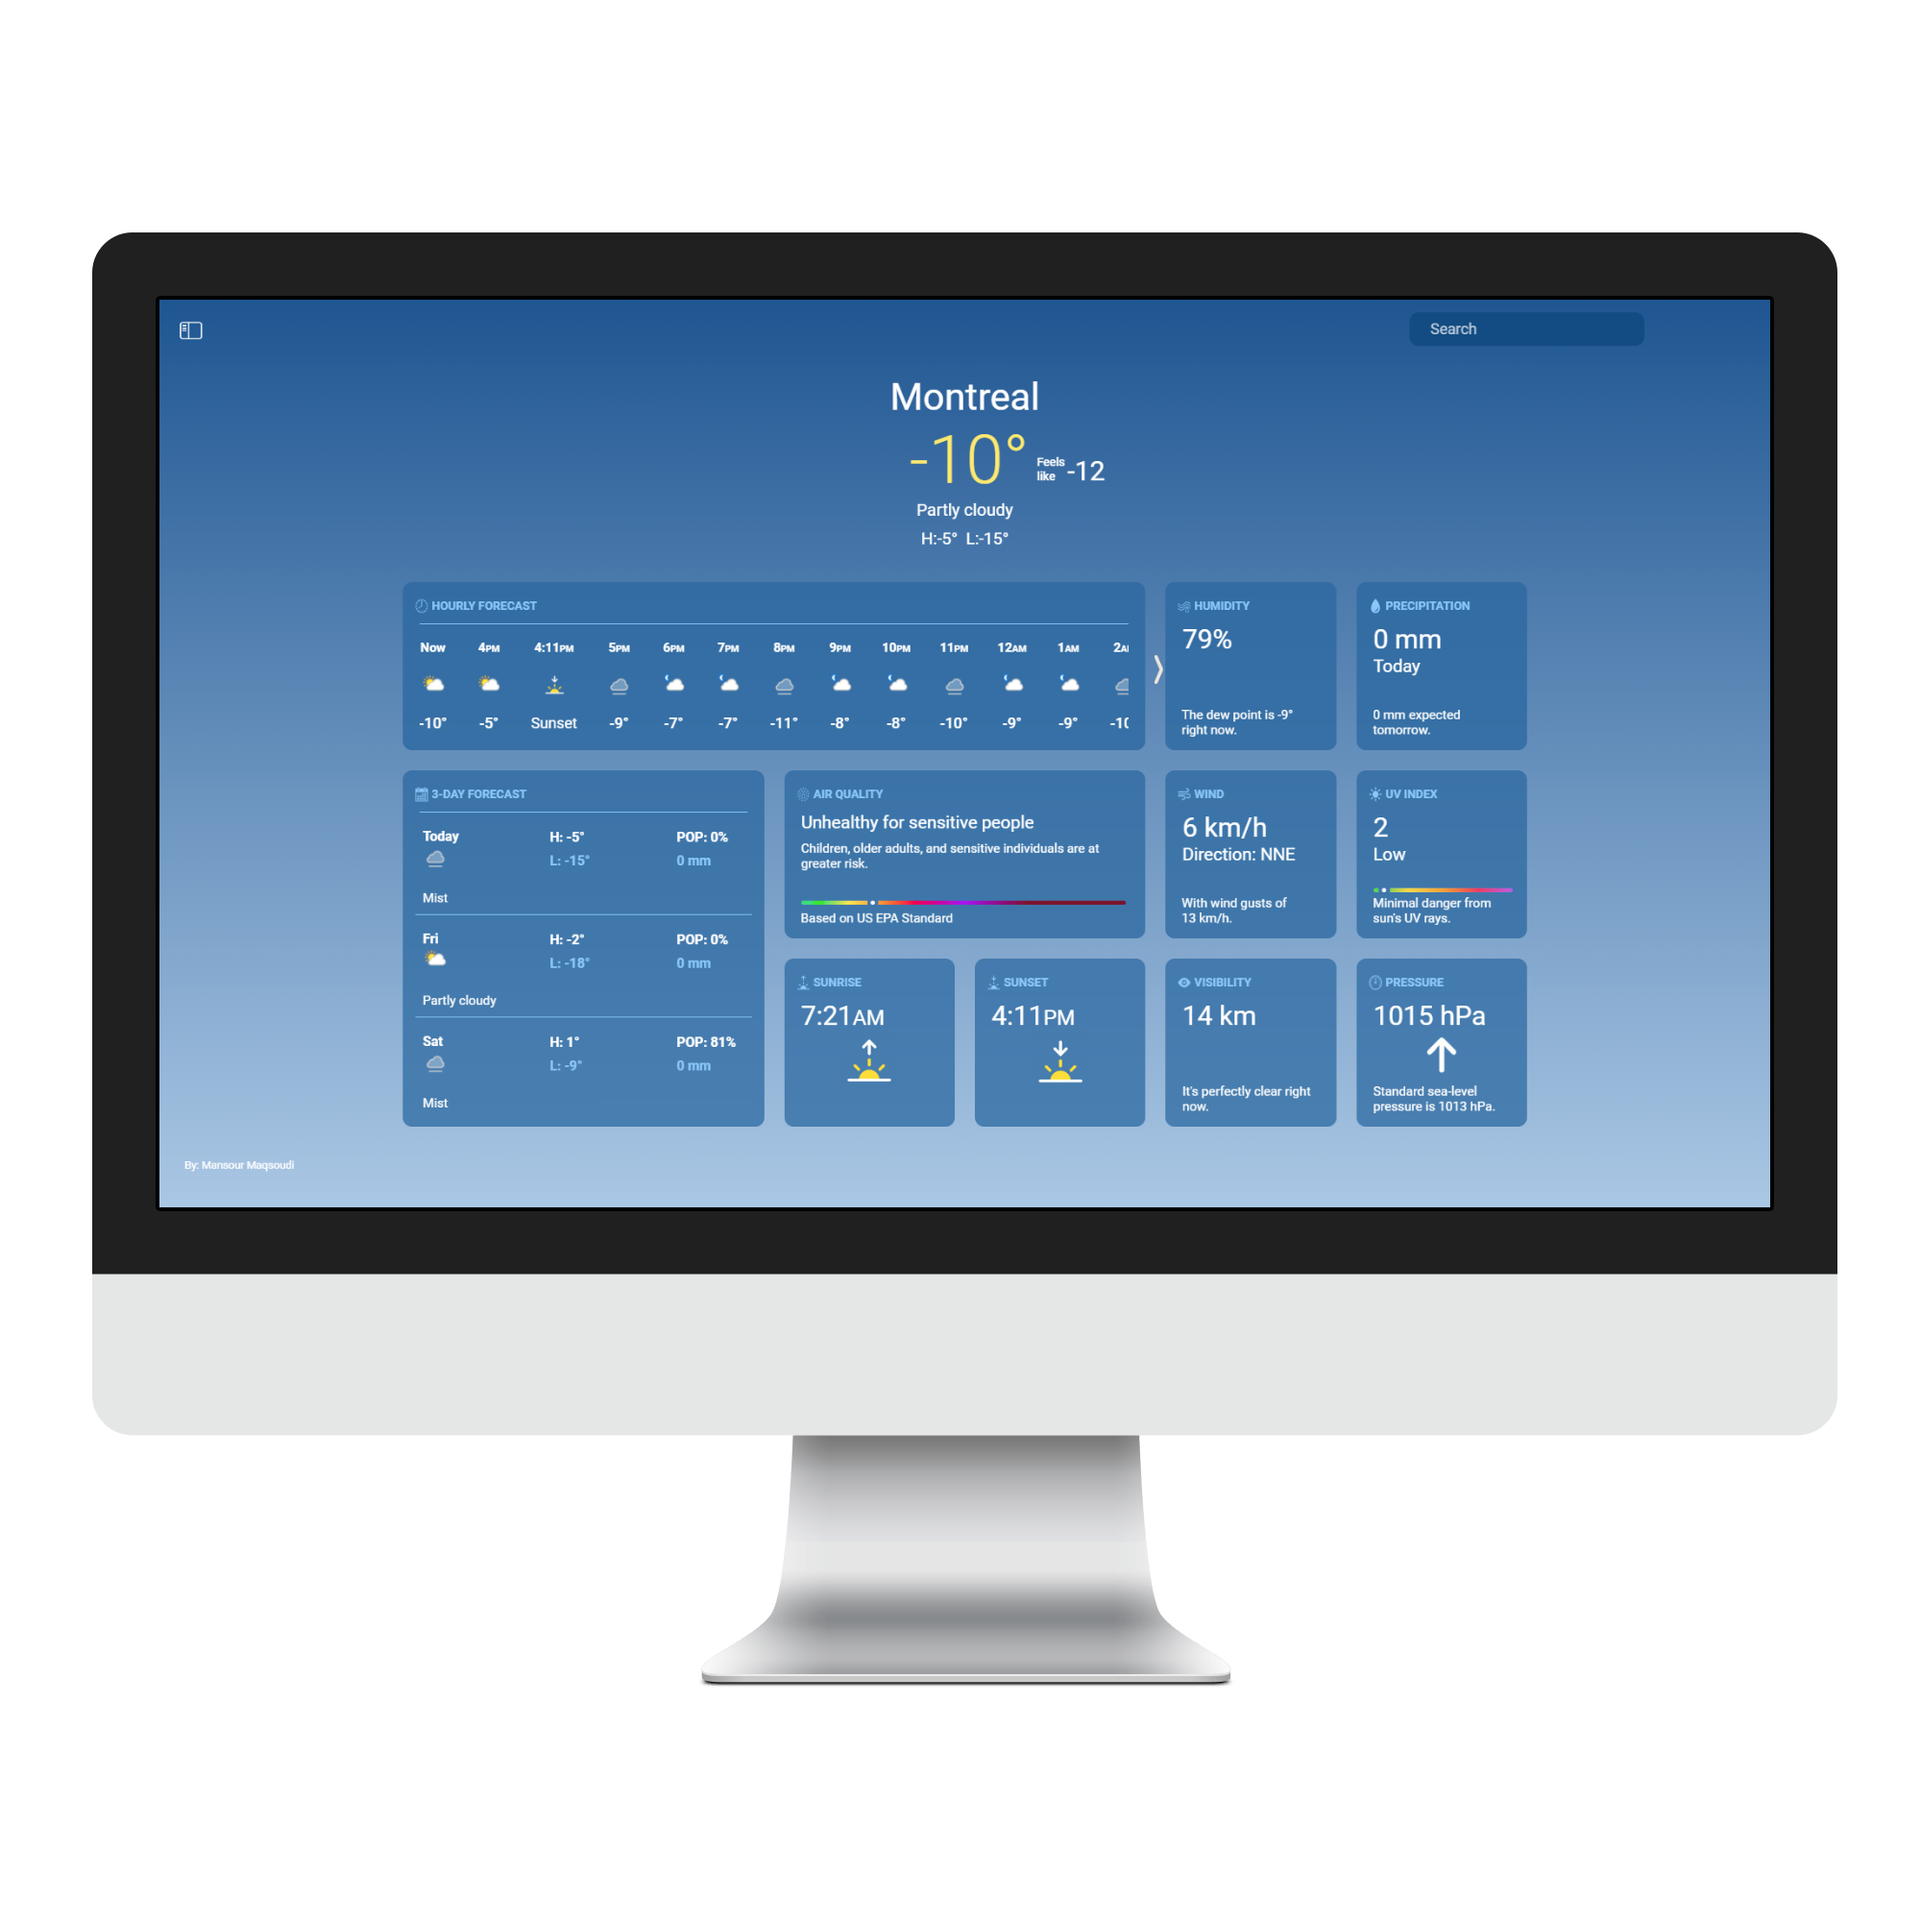
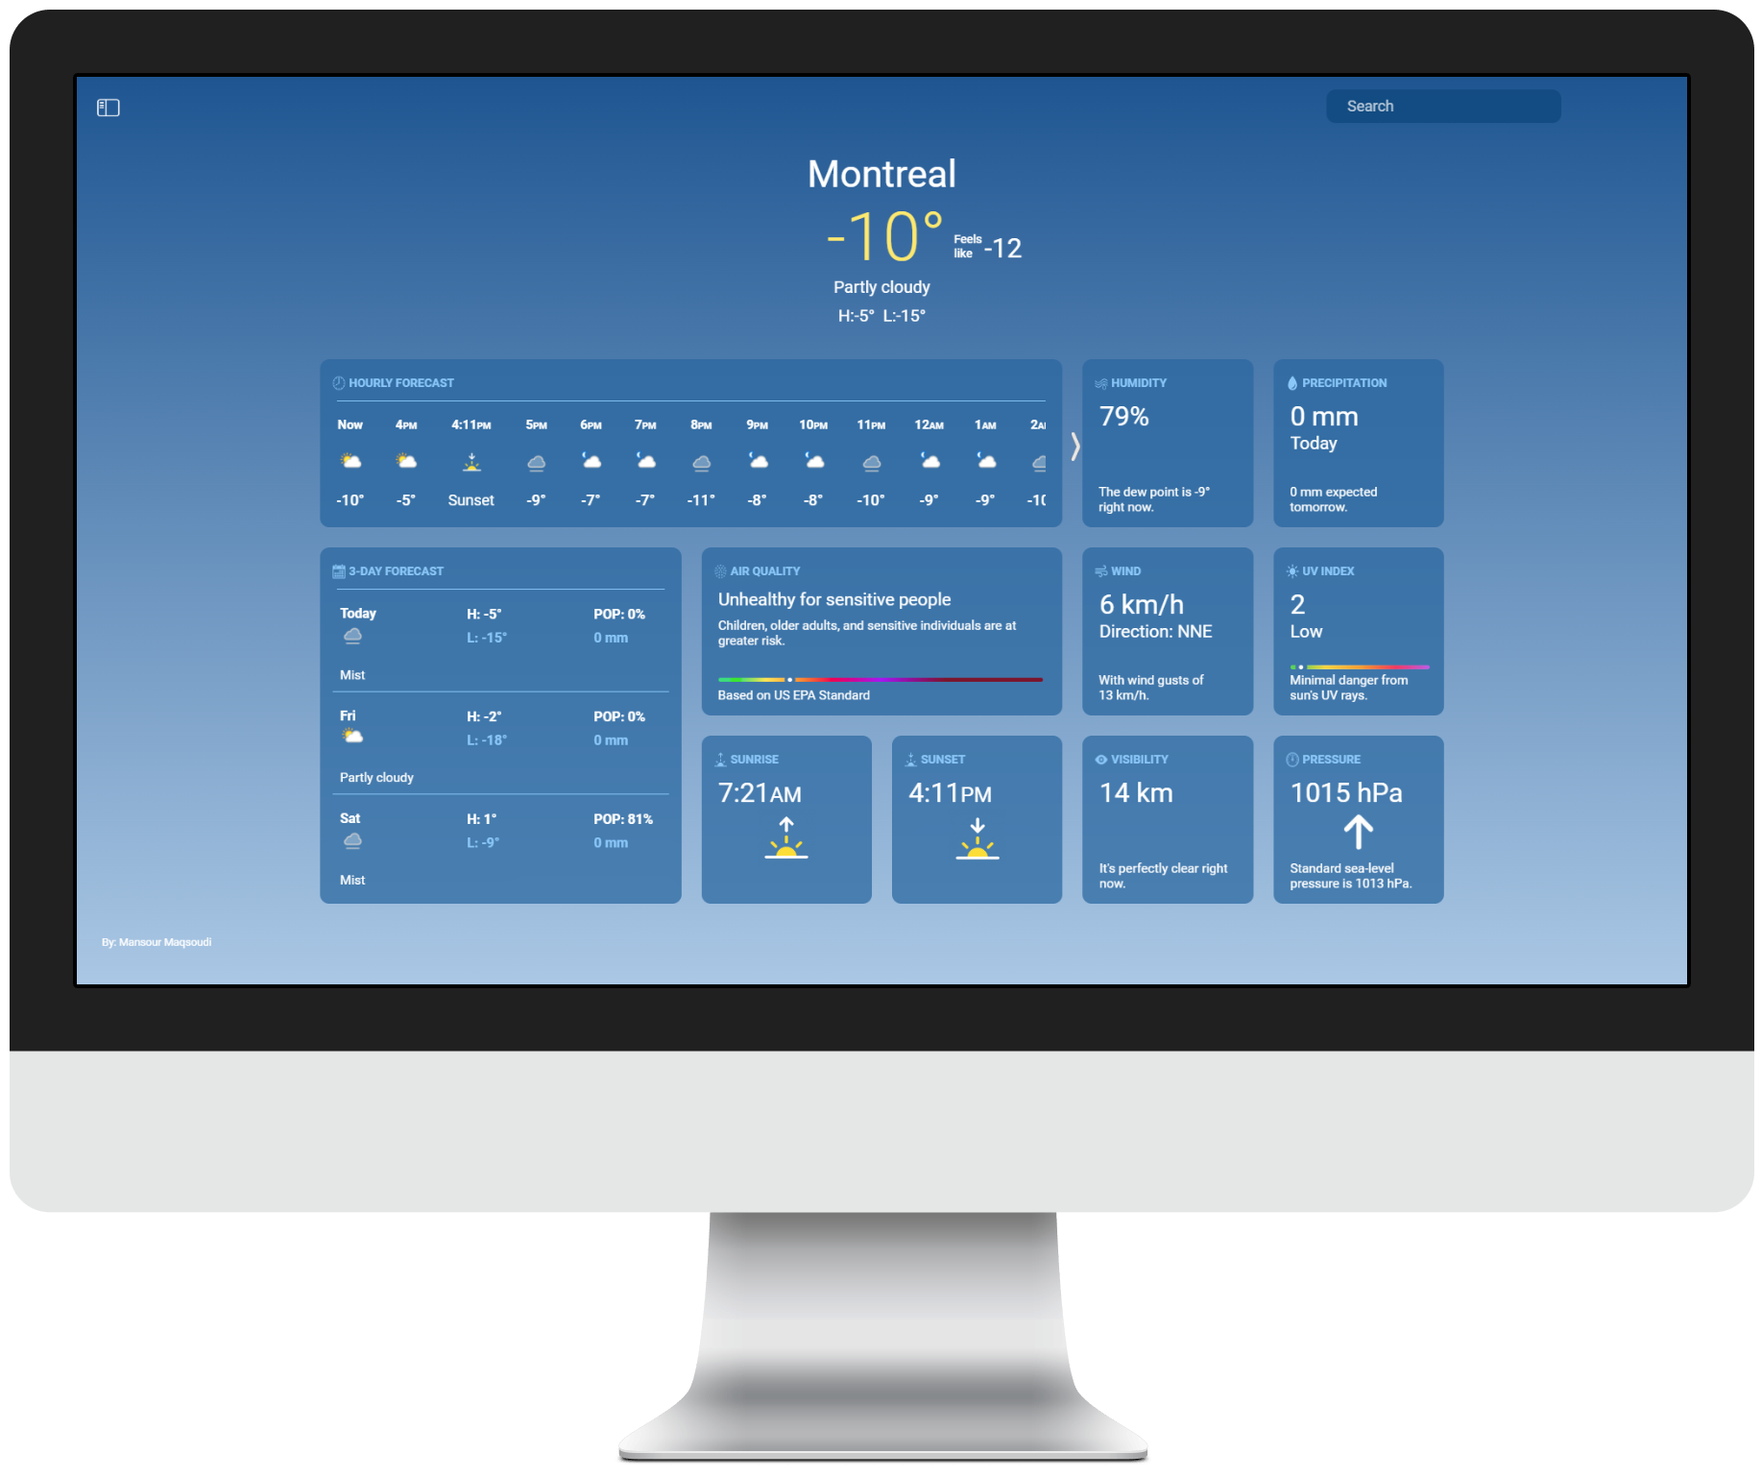
fix typo + added started to implement weather website images

diff --git a/mystyle.css b/mystyle.css
@@ -380,6 +380,7 @@ body {
     /*border: 1px solid red;*/
 }
 .right-column{
+    position: relative;
     float: right;
     width:50%;
     /*border: 1px solid blue;*/
@@ -392,14 +393,7 @@ body {
 
 
 
-#weather-phone{
-    position:absolute;
-    width:250px;
-}
-#weather-phone2{
-    position:absolute;
-    width:175px;
-}
+
 .medium-image-right{
     width:90%; /*previous width:398px;*/ 
     border-radius:2%/4%;
@@ -408,6 +402,25 @@ body {
 .medium-image-left{
     width: 90%;
     border-radius:2%/4%;
+}
+
+#weather-desktop{
+    width:99%;
+    /*border: solid red 1px;*/
+}
+#weather-tablet{
+    position:absolute;
+    width:250px;
+    top:80%;
+    left:10%;
+    transform: rotate(-10deg);
+}
+#weather-phone{
+    position:absolute;
+    width:175px;
+    top:102%;
+    right:10%;
+    transform: rotate(10deg);
 }
 
 
@@ -560,6 +573,15 @@ body {
     .medium-image-left{
         width:49%;
     }
+    #weather-desktop{
+        width:70%;
+    }
+    #weather-tablet{
+        display:none;
+    }
+    #weather-phone{
+        display:none;
+    }
     
 }
 
@@ -696,7 +718,7 @@ body {
 @media screen and (max-width: 500px){
     /*Need to start shrinking the logo cards*/
     .three-column-cards{
-        border: solid 2px pink;
+        /*border: solid 2px pink;*/
     }
     .card{  /*all new logo card values are 75% or original size*/
         width:150px;

diff --git a/index.html b/index.html
@@ -261,11 +261,9 @@
 
 
                 <div class="right-column">
-                    <!--<img class="wide-image" src="images/project/weather.png">-->
-                    <!--<img class="medium-image-right" id="weather-phone" src="images/project/weather-phone.png" width="50%">-->
-                    <img class="medium-image-right"  src="images/project/weather/desktop-final.png" >
-                    <!--<img class="medium-image-right" id="weather-phone" src="images/project/weather/tablet-final.png" >-->
-                    <!--<img class="medium-image-right" id="weather-phone2" src="images/project/weather/phone-final.png" >-->
+                    <img class="medium-image-right" id="weather-desktop"  src="images/project/weather/desktop-final.png" >
+                    <img class="medium-image-right" id="weather-tablet" src="images/project/weather/tablet-final.png" >
+                    <img class="medium-image-right" id="weather-phone" src="images/project/weather/phone-final.png" >
                 </div>
             </div>
         
@@ -566,7 +564,7 @@
                         </div>
                         
                         <div class="card-title">
-                            <p>Linus</p>
+                            <p>Linux</p>
                         </div>
                     </a>
 
